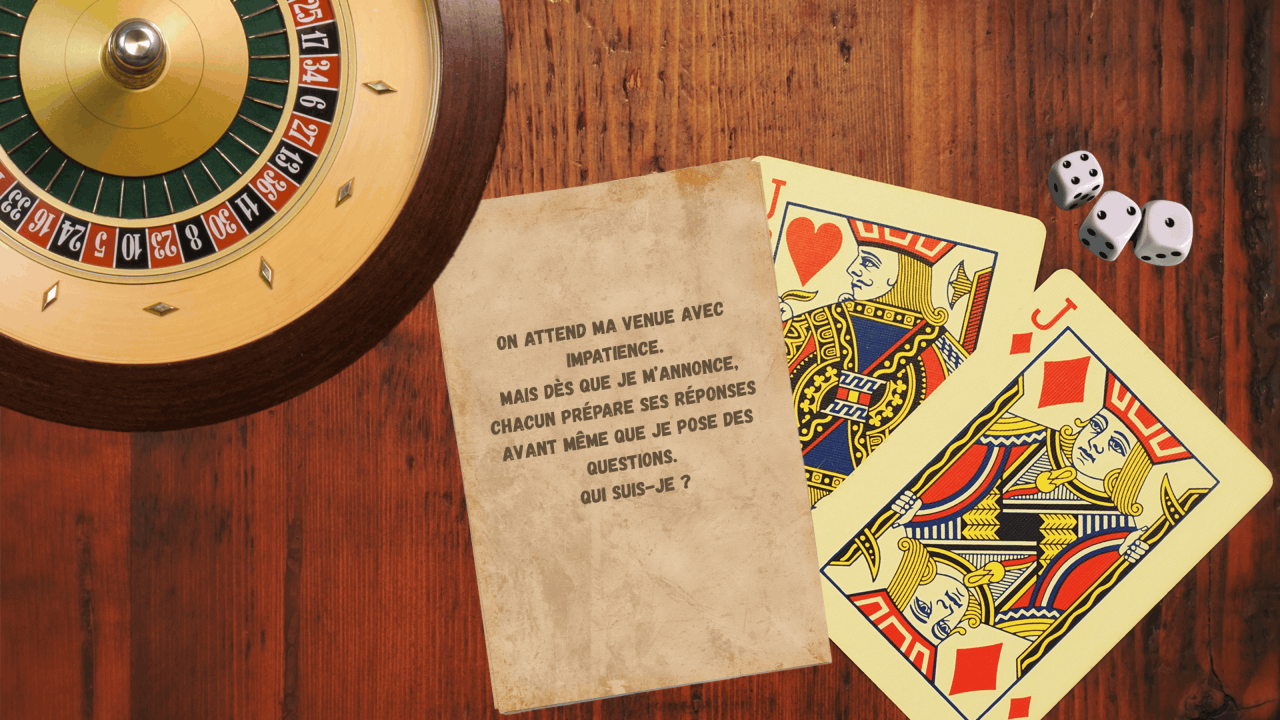
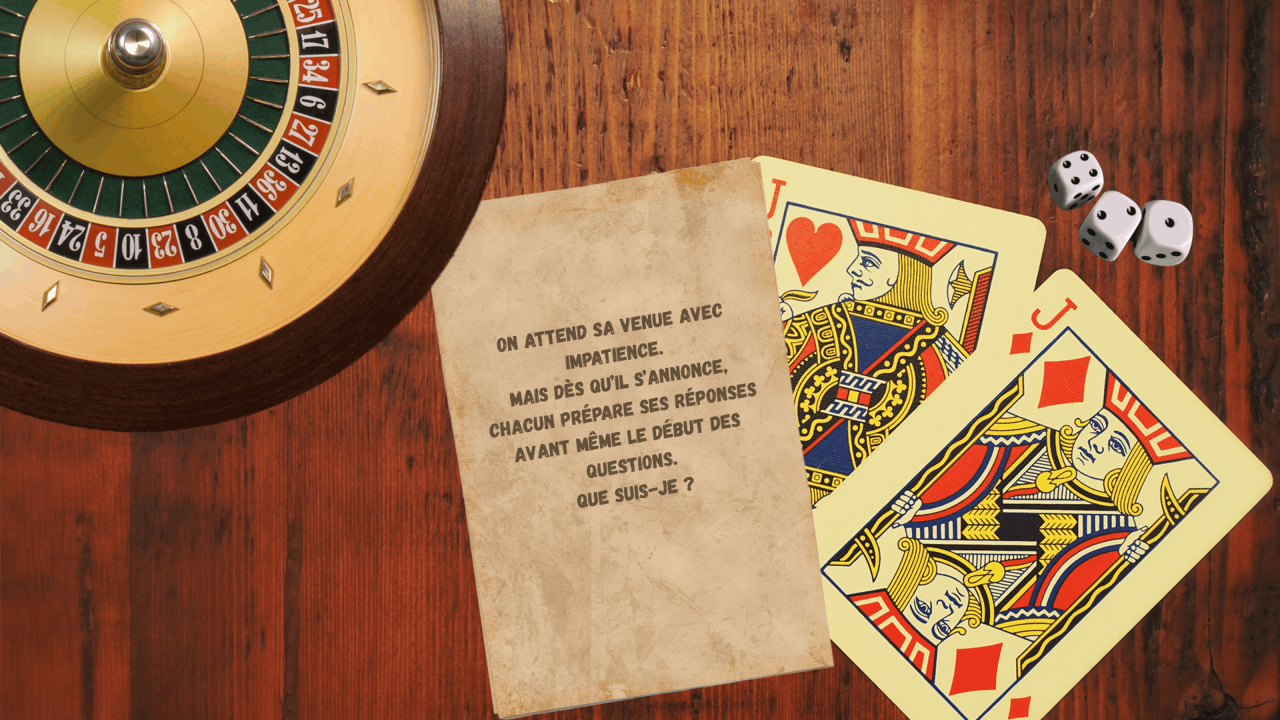
Ajout de bouton aide + changement des different niveau

Changed region(s): [[0.3438, 0.4278, 0.5938, 0.7028], [0.375, 0.9472, 0.5625, 1.0], [0.5625, 0.8861, 0.6562, 0.9472]]

diff --git a/assets/css/metro.css b/assets/css/metro.css
@@ -13,22 +13,22 @@ body {
 #background-image {
     width: 100%;
     height: 100%;
-    background-image: url('../img/metro.png');
+    background-image: url('../img/background-metro.png');
     background-size: cover;
     background-position: center;
 }
 
 #cadenas-zone {
     position: absolute;
-    top: 45%; 
-    left: 30%; 
-    width: 20%;
+    top: 35%; 
+    left: 35%; 
+    width: 20%; 
     height: 25%;
     cursor: pointer;
 }
 
 .zoomed {
-    transform: scale(2) translate(10%, -5%);
+    transform: scale(2) translate(3%, -5%);
 }
 
 #ui-code {

diff --git a/assets/css/style.css b/assets/css/style.css
@@ -36,6 +36,7 @@ body {
     width: 125px;
     height: 35px;
     box-sizing: border-box;
+    border: 1px solid black;
 }
 
 .bouton:hover {
@@ -55,6 +56,13 @@ body {
     top: 25px;
     left: 25px;
     z-index: 2000;
+}
+
+.btn-fixe-haut-droite {
+    position: fixed;
+    top: 20px;
+    right: 20px;
+    z-index: 1000;
 }
 
 .boite-centre-accueil {

diff --git a/assets/js/casino.js b/assets/js/casino.js
@@ -16,3 +16,7 @@ function verifierReponse() {
         input.value = "";
     }
 }
+
+function afficherIndice() {
+    alert("Un mot en lien avec le processus de recrutement");
+}

diff --git a/assets/js/metro.js b/assets/js/metro.js
@@ -44,3 +44,7 @@ function verifierCode() {
         input.value = "";
     }
 }
+
+function afficherIndice() {
+    alert("Regardez attentivement chaque fenêtre, le trajet semble plus chargé dans certaines voitures que dans d'autres");
+}

diff --git a/assets/js/taquin.js b/assets/js/taquin.js
@@ -133,6 +133,10 @@ function verifierVictoire() {
     }
 }
 
+function afficherIndice() {
+    alert("C'est un puzzle coulissant, si vous cliquez sur une pièce adjacente à l'espace vide, celle-ci se mettra dedans. But du jeu : remettre les pièces dans l'ordre.");
+}
+
 // Lancement du jeu
 melanger();
 dessinerJeu();

diff --git a/catacombs.html b/catacombs.html
@@ -8,9 +8,11 @@
     <title>Catacombes</title>
 </head>
 <body>
+    <button class="bouton btn-fixe-haut-droite" onclick="afficherIndice()">Aide</button>
+
     <div id="board"></div>
 
-    <div id="victory-screen" class="boite-dialogue ecran-victoire-generique"
+    <div id="victory-screen" class="boite-dialogue ecran-victoire-generique">
         <p id="victory-text" class="texte-narratif">Ma passion pour l’écriture naît dans un premier temps avec la rédaction d’histoires fictives. J’ai par la suite eu l’occasion durant mon parcours scolaire d’écrire pour informer, traduire ou faire la promotion d’événements. J’ai donc développé un véritable intérêt pour la communication et souhaite renforcer mes compétences dans ce domaine durant le Master Professions de l’écrit en apprentissage. Je souhaite devenir chargée de rédaction ou de communication dans un environnement bilingue français-anglais.</p>
     </div>
 

diff --git a/casino.html b/casino.html
@@ -8,6 +8,7 @@
     <title>Casino</title>
 </head>
 <body>
+    <button class="bouton btn-fixe-haut-droite" onclick="afficherIndice()">Aide</button>
 
     <div id="input-zone-container">
         <div class="input-group">
@@ -18,7 +19,7 @@
     </div>
 
     <div id="victory-screen" class="boite-dialogue ecran-victoire-transition" style="display: none; opacity: 0; transition: opacity 1s ease-in; width: 60%; position: fixed; top: 50%; left: 50%; transform: translate(-50%, -50%);">
-        <p class="texte-narratif">Je suis une personne créative qui apprécie créer des visuels attractifs ainsi que rédiger de façon adaptée et innovante. Pendant mon stage à l’ensIIE j’ai pu traduire et adapter des visuels Instagram et linkedIn pour l’école.<br>J’ai également un attrait particulier pour le web, se traduisant par une présence active sur internet (notamment Instagram) me permettant d’avoir une bonne connaissance des codes des réseaux sociaux. Je sais également faire des propositions et suivre des stratégies grâce à mon expérience dans l’association News Étudiants Évry afin de promouvoir nos activités auprès des étudiants. J’espère pouvoir partager toutes ces belles expériences avec vous en intégrant votre équipe !</p>
+        <p class="texte-narratif">Je suis une personne créative qui apprécie créer des visuels attractifs ainsi que rédiger de façon adaptée et innovante. Pendant mon stage à l’ensIIE j’ai pu traduire et adapter des visuels Instagram et LinkedIn pour l’école.<br>J’ai également un attrait particulier pour le web, se traduisant par une présence active sur internet (notamment Instagram) me permettant d’avoir une bonne connaissance des codes des réseaux sociaux. Je sais également faire des propositions et suivre des stratégies grâce à mon expérience dans l’association News Étudiants Évry afin de promouvoir nos activités auprès des étudiants. J’espère pouvoir partager toutes ces belles expériences avec vous en intégrant votre équipe !</p>
     </div>
 
     <a href="conclusion.html" class="bouton btn-fixe-droite" id="btn-suivant" style="display: none;">Suivant</a>

diff --git a/assets/css/index.css b/assets/css/index.css
@@ -23,6 +23,7 @@ body {
     transform: translate(-50%, -50%); 
 }
 
+
 .wave label {
     font-size: 50px;
     color: white;

diff --git a/metro.html b/metro.html
@@ -15,6 +15,7 @@
     </div>
 
     <button id="bouton-retour" class="bouton btn-fixe-gauche" onclick="dezoom()" style="display: none;">Retour</button>
+    <button class="bouton btn-fixe-haut-droite" onclick="afficherIndice()">Aide</button>
 
     <div id="ui-code" style="display: none;">
         <div class="boite-dialogue">